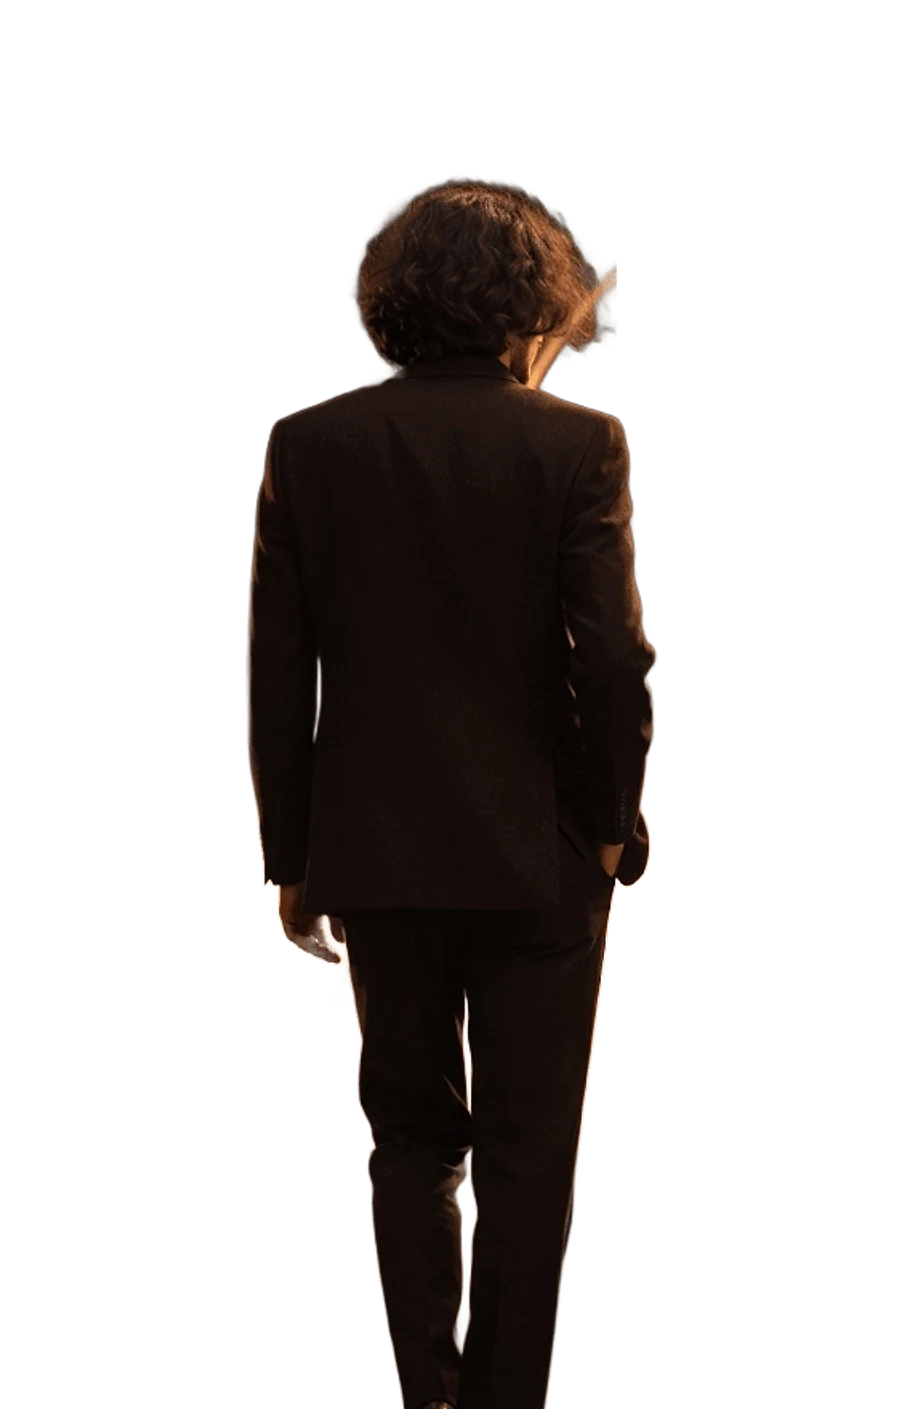
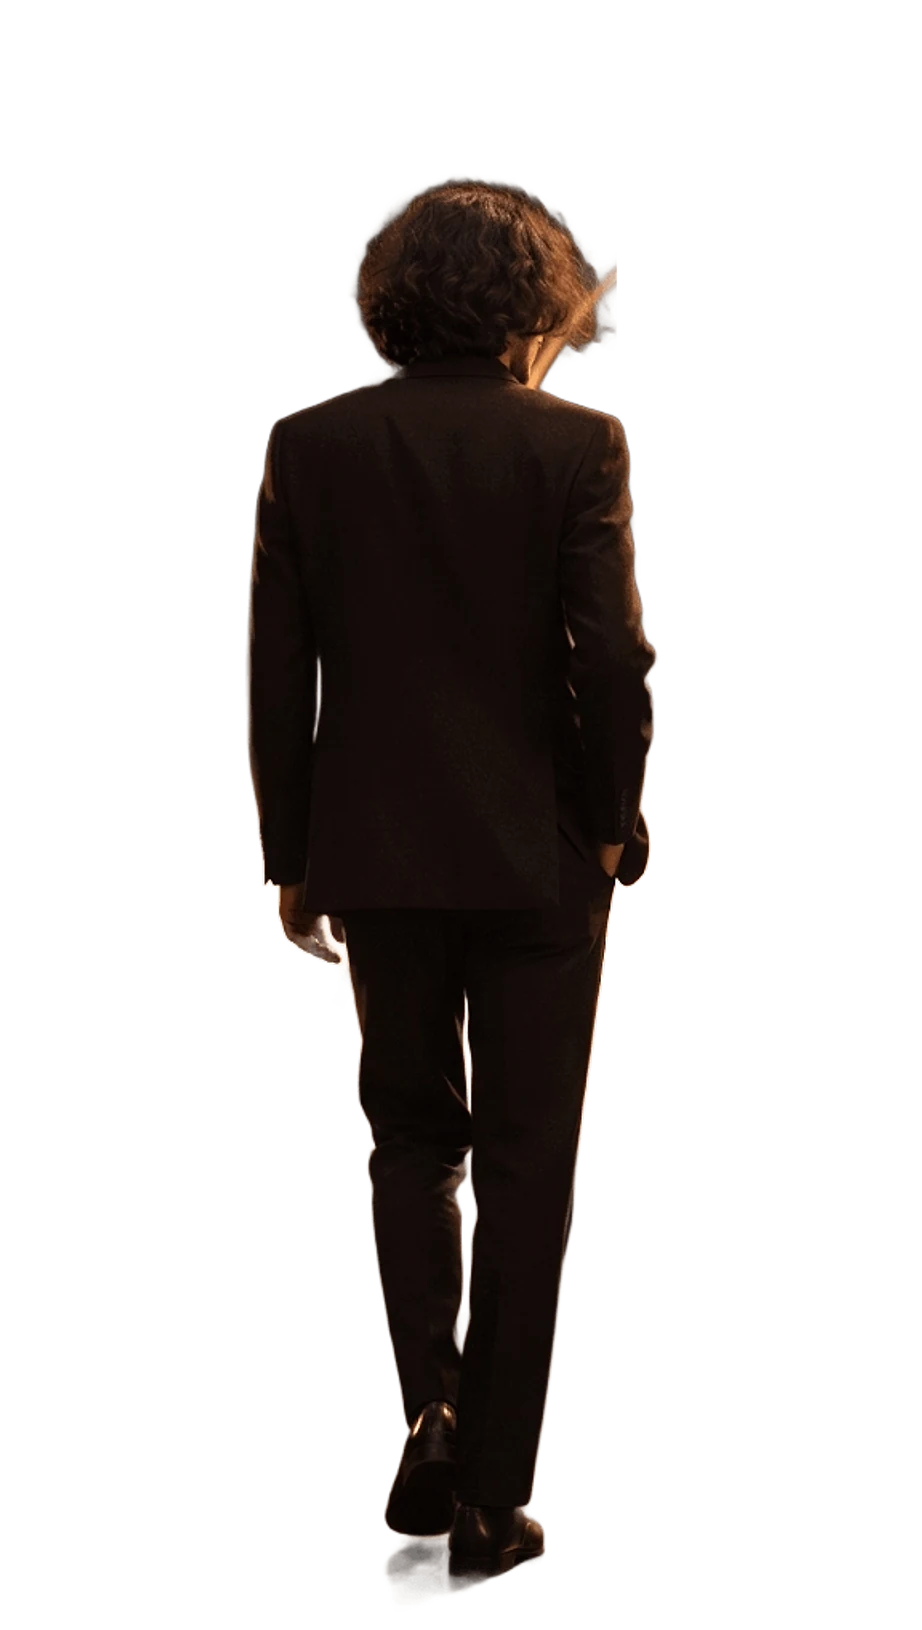
Theme transition works at any scroll depth (per-scene snapshot layers); outro photo keeps the feet

Changed region(s): [[0.243, 0.0937, 0.7289, 1.0], [0.3341, 0.406, 0.3644, 0.5309], [0.6074, 0.4372, 0.6377, 0.4684]]

diff --git a/src/lib/ink.ts b/src/lib/ink.ts
@@ -131,6 +131,34 @@ type VTDocument = Document & {
   startViewTransition?: (cb: () => void) => { ready: Promise<void>; finished: Promise<void> }
 }
 
+/**
+ * Layers captured on their own for the transition.
+ *
+ * The root snapshot the browser takes for a View Transition comes out blank once the document is
+ * scrolled past roughly 16,000 px (a texture-size limit), so on the later scenes the old theme
+ * had nothing to show: the page changed colour at once and the ink only revealed content.
+ * Elements with their own `view-transition-name` are captured in their own space and do not hit
+ * that limit. So, just before the transition, every scene currently on screen gets a name
+ * (at most three overlap), and the nav and switch carry permanent ones. Each is viewport-sized
+ * and pinned to the viewport, so the one mask lines up on all of them.
+ */
+const STAGE = ['vt-stage-0', 'vt-stage-1', 'vt-stage-2', 'vt-stage-3']
+const LAYERS = [...STAGE, 'vt-nav', 'vt-switch']
+let tagged: HTMLElement[] = []
+function tagStage() {
+  tagged = []
+  document.querySelectorAll<HTMLElement>('.scene__pin:not(.is-idle)').forEach((pin) => {
+    const r = pin.getBoundingClientRect()
+    if (r.bottom <= 1 || r.top >= window.innerHeight - 1 || tagged.length >= STAGE.length) return
+    pin.style.setProperty('view-transition-name', STAGE[tagged.length])
+    tagged.push(pin)
+  })
+}
+function untagStage() {
+  tagged.forEach((pin) => pin.style.removeProperty('view-transition-name'))
+  tagged = []
+}
+
 let running = false
 export async function toggleTheme(button?: HTMLElement | null) {
   if (running) return
@@ -146,6 +174,7 @@ export async function toggleTheme(button?: HTMLElement | null) {
     else await building
     if (!sheetUrl) throw new Error('no ink sheet')
     document.documentElement.classList.add('ink-transition')
+    tagStage()
     const vt = doc.startViewTransition(() => flushSync(() => setTheme(next)))
     await vt.ready
     const frames: Keyframe[] = []
@@ -153,17 +182,21 @@ export async function toggleTheme(button?: HTMLElement | null) {
       const pos = `${((i % COLS) / (COLS - 1)) * 100}% ${(Math.floor(i / COLS) / (ROWS - 1)) * 100}%`
       frames.push({ maskPosition: pos, webkitMaskPosition: pos, easing: 'step-end', offset: i / (FRAMES - 1) })
     }
-    document.documentElement.animate(frames, {
-      duration: DURATION,
-      easing: 'linear',
-      fill: 'both',
-      pseudoElement: '::view-transition-new(root)',
-    })
+    // the same blot, in step, on every layer that was captured
+    for (const name of ['root', ...LAYERS]) {
+      document.documentElement.animate(frames, {
+        duration: DURATION,
+        easing: 'linear',
+        fill: 'both',
+        pseudoElement: `::view-transition-new(${name})`,
+      })
+    }
     await vt.finished
   } catch {
     if (getTheme() !== next) setTheme(next)
   } finally {
     document.documentElement.classList.remove('ink-transition')
+    untagStage()
     running = false
     prepareInk(button) // fresh blot shape next time
   }

diff --git a/src/styles/global.css b/src/styles/global.css
@@ -167,6 +167,47 @@ img {
 ::view-transition-new(cursor) {
   animation: none;
 }
+/* Scenes, nav and switch are captured as their own layers (see lib/ink.ts for why). They get
+   exactly the treatment the root gets: no default cross-fade, old underneath, new on top
+   and revealed through the ink mask. */
+::view-transition-group(vt-stage-0),
+::view-transition-group(vt-stage-1),
+::view-transition-group(vt-stage-2),
+::view-transition-group(vt-stage-3),
+::view-transition-group(vt-nav),
+::view-transition-group(vt-switch) {
+  animation: none;
+}
+::view-transition-old(vt-stage-0),
+::view-transition-old(vt-stage-1),
+::view-transition-old(vt-stage-2),
+::view-transition-old(vt-stage-3),
+::view-transition-old(vt-nav),
+::view-transition-old(vt-switch),
+::view-transition-new(vt-stage-0),
+::view-transition-new(vt-stage-1),
+::view-transition-new(vt-stage-2),
+::view-transition-new(vt-stage-3),
+::view-transition-new(vt-nav),
+::view-transition-new(vt-switch) {
+  animation: none;
+  mix-blend-mode: normal;
+  height: 100%;
+}
+.ink-transition::view-transition-old(vt-stage-0),
+.ink-transition::view-transition-old(vt-stage-1),
+.ink-transition::view-transition-old(vt-stage-2),
+.ink-transition::view-transition-old(vt-stage-3),
+.ink-transition::view-transition-old(vt-nav),
+.ink-transition::view-transition-old(vt-switch) {
+  z-index: 1;
+}
+.ink-transition::view-transition-new(vt-stage-0),
+.ink-transition::view-transition-new(vt-stage-1),
+.ink-transition::view-transition-new(vt-stage-2),
+.ink-transition::view-transition-new(vt-stage-3),
+.ink-transition::view-transition-new(vt-nav),
+.ink-transition::view-transition-new(vt-switch),
 .ink-transition::view-transition-new(root) {
   z-index: 2;
   -webkit-mask-image: var(--ink-sheet);

diff --git a/src/styles/chrome.css b/src/styles/chrome.css
@@ -78,14 +78,17 @@
 }
 
 /* ───────── nav ───────── */
+/* Each nav layer is a viewport-sized box (only its children take pointer events). That makes it
+   the same shape as the page for the theme transition, so the one ink mask lines up on it. */
 .nav {
   position: fixed;
   top: 0;
   left: 0;
   right: 0;
+  bottom: 0;
   z-index: 50;
   display: flex;
-  align-items: center;
+  align-items: flex-start;
   justify-content: space-between;
   padding: clamp(16px, 2vw, 28px) var(--pad);
   pointer-events: none;
@@ -98,6 +101,10 @@
 .nav--blend {
   mix-blend-mode: difference;
   color: #e9e3d7;
+  view-transition-name: vt-nav;
+}
+.nav--blend .nav__mark {
+  margin-top: 3px; /* optical: centres the mark on the switch beside it */
 }
 .nav--blend .caps,
 .nav--blend .nav__roll,
@@ -110,6 +117,7 @@
 .nav--switch {
   justify-content: flex-end;
   z-index: 51;
+  view-transition-name: vt-switch;
 }
 .nav__mark {
   font-family: var(--serif);

diff --git a/src/styles/exit.css b/src/styles/exit.css
@@ -1,6 +1,6 @@
 /* ───────── 11 Exit: the sign-off ───────── */
 .exit {
-  --dh: min(76svh, 46vw * 1.53); /* door height */
+  --dh: min(80svh, 40vw * 1.77); /* door height (the photo is now full height, feet included) */
   position: absolute;
   inset: 0;
   overflow: hidden;
@@ -13,7 +13,7 @@
   left: 50%;
   top: 50%;
   height: var(--dh);
-  aspect-ratio: 922 / 1409;
+  aspect-ratio: 922 / 1630;
   transform: translate(-50%, -50%);
   overflow: hidden;
   border-radius: 3px;
@@ -49,7 +49,7 @@
 .exit__right {
   position: absolute;
   bottom: clamp(70px, 13svh, 130px);
-  width: calc(50vw - var(--dh) * 0.327 - var(--pad) - 3vw);
+  width: calc(50vw - var(--dh) * 0.283 - var(--pad) - 3vw);
   display: grid;
   gap: clamp(20px, 2.6vw, 38px);
 }
@@ -134,7 +134,7 @@
 
 @media (max-width: 900px) {
   .exit {
-    --dh: 44svh;
+    --dh: 47svh;
   }
   .exit__door {
     top: calc(72px + var(--dh) / 2);

diff --git a/src/styles/scene.css b/src/styles/scene.css
@@ -160,7 +160,8 @@ html.has-cursor [data-cursor] {
 .nav__index {
   position: absolute;
   left: 50%;
-  transform: translateX(-50%);
+  top: calc(clamp(16px, 2vw, 28px) + 15px);
+  transform: translate(-50%, -50%);
   display: flex;
   white-space: pre;
   pointer-events: none;

diff --git a/NOTES.md b/NOTES.md
@@ -2,6 +2,25 @@
 
 Decisions and open questions, newest first.
 
+## Revision 5: theme switch on later pages, feet in the outro photo
+
+- **Theme switch flipped colour before the ink on later pages.** Cause: the root snapshot the
+  browser takes for a View Transition comes out blank once the document is scrolled past about
+  16,000 px. Confirmed by changing only the viewport height: the Reel page worked at 8,560 px of
+  scroll and failed at 17,334 px. With a blank old snapshot the page showed the new colours at
+  once and the ink only revealed content. Fix: just before the transition, every scene on
+  screen gets its own `view-transition-name` (up to four), and the nav and switch carry
+  permanent ones; each is captured in its own space, which does not hit the limit, and the same
+  mask animation runs on all of them. The nav layers were made viewport-sized so one mask lines
+  up on everything. Mid-transition coverage by the old theme on the Spiral page went from 2% to
+  32%, in line with the corridor page (35%).
+- **Outro photo cut at the ankles.** The photo had been cropped above the generator watermark,
+  which also cropped the feet. It is now kept at full height and the watermark (a small sparkle
+  on the floor, clear of the figure) is painted over with the floor beside it. The doorway's
+  proportions follow the taller image.
+- Checked again on the production build: all eleven scenes in dark, light, phone and reduced
+  motion; scrolling to the bottom and back up with real wheel input and with instant jumps.
+
 ## Revision 4: performance pass ("feels a little laggy")
 
 Measured on the production build (`vite preview`), not the dev server, which is much slower and
